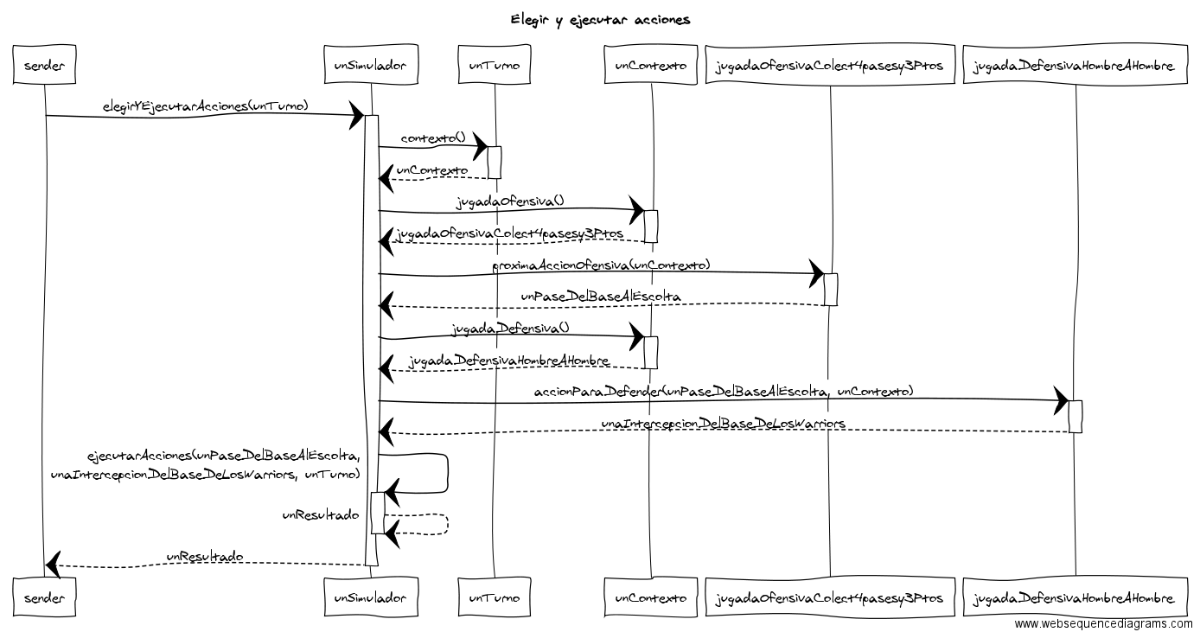
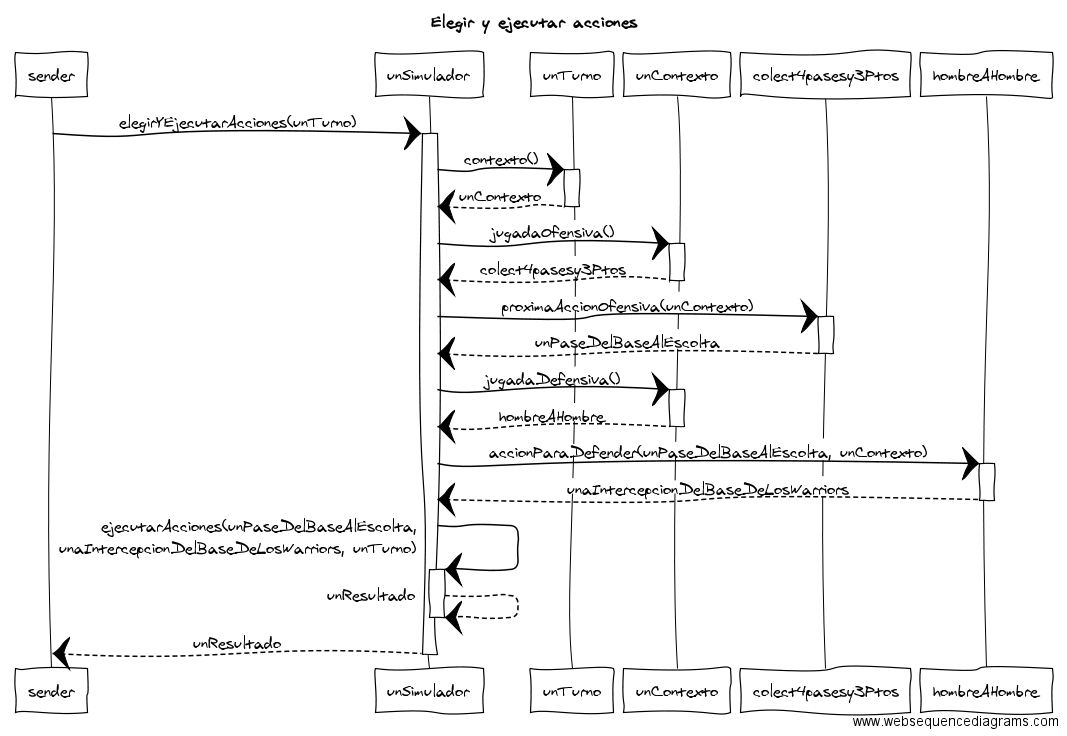
Achique los nombres en el diagrama y aumente el tamaño en el informe, asi se ve mas grande

diff --git a/tp1/informe/disenio.tex b/tp1/informe/disenio.tex
@@ -81,7 +81,7 @@ La desventaja del enfoque utilizado para modelar esto, es que al agregar accione
 
 Representaremos con un diagrama de secuencias, cómo es que estas acciones se eligen y ejecutan:
 \begin{center}
-\includegraphics[scale=0.35]{diseno/Elegir_y_ejecutar_acciones.png}
+\includegraphics[scale=0.4]{diseno/Elegir_y_ejecutar_acciones.png}
 \end{center}
 Queda entonces claro cómo es que el simulador se encarga de tomar del \textit{contexto} la jugada que se está realizando, y solicitarle las a ésta las acciones que la conforman para, luego de recibidas, proceder a ejecutarlas.
 
